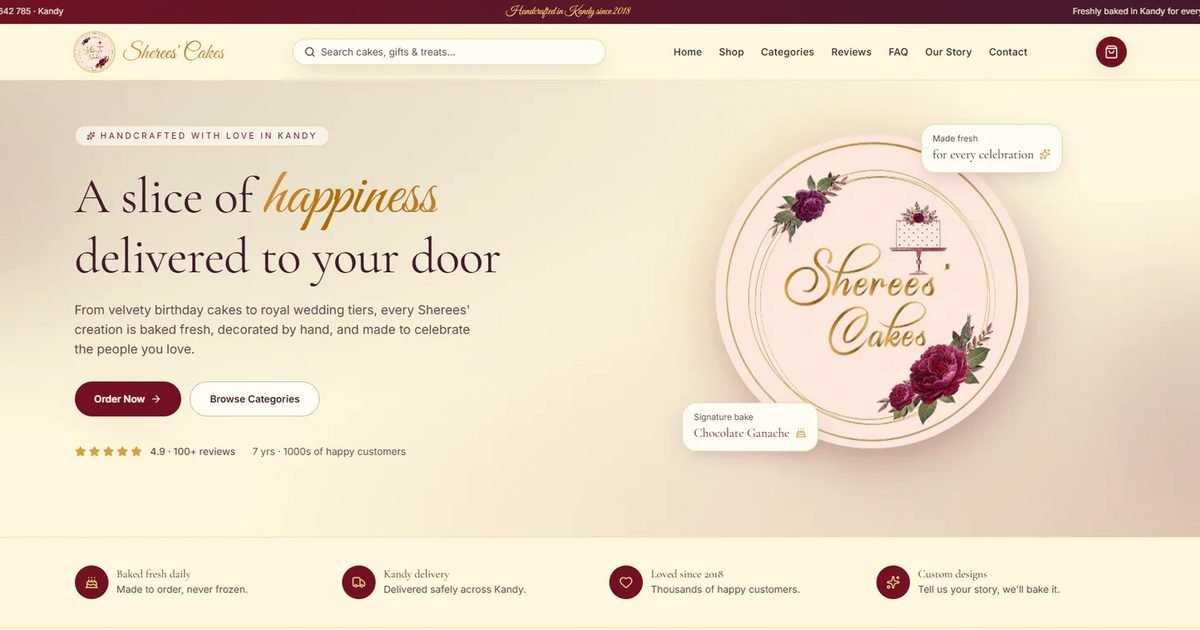
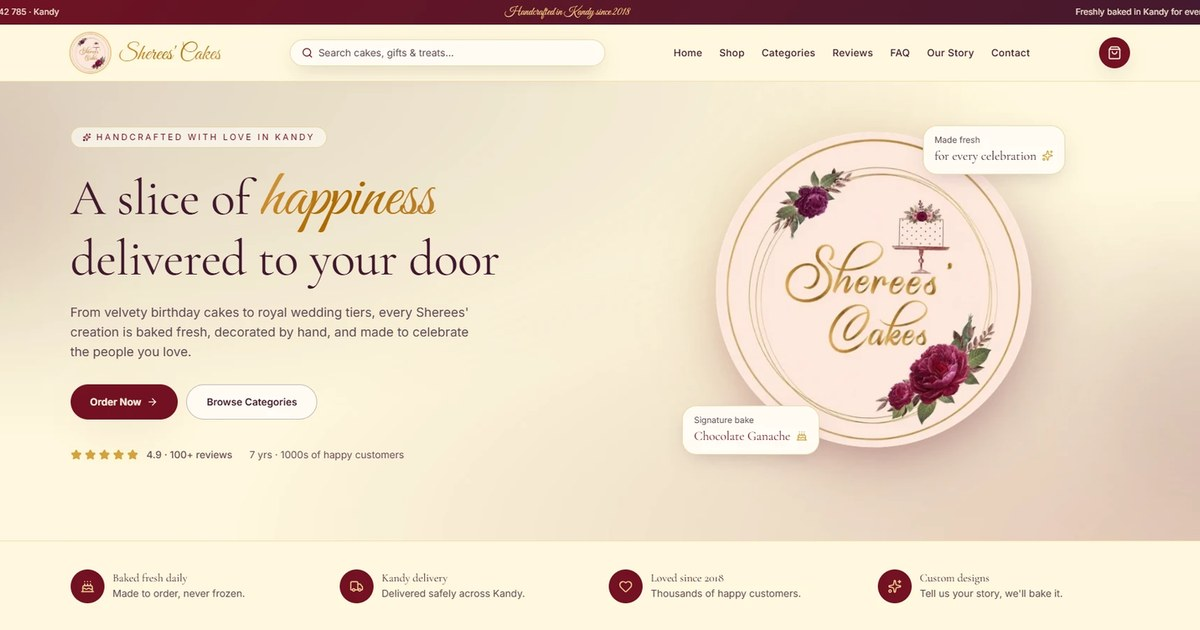
Update sheree's cakes project images

diff --git a/sachinakash.dev/src/data/portfolio.ts b/sachinakash.dev/src/data/portfolio.ts
@@ -528,15 +528,20 @@ export const projects: Project[] = ([
     title: "Sheree’s Cakes E-Commerce Platform",
     url: "https://www.shereescakes.lk/",
     image: "/images/projects/sherees-cakes.webp",
-    imageAlt: "Sheree's Cakes e-commerce website home page",
+    imageAlt: "Sheree's Cakes home page hero: A slice of happiness delivered to your door",
     gallery: [
       {
-        image: "/images/projects/sherees-cakes-shop.png",
+        image: "/images/projects/sherees-cakes-shop.webp",
         imageAlt:
-          "Sheree's Cakes online shop with product filters and birthday cake catalogue",
+          "Sheree's Cakes Shop All Treats page with product search and category filters",
       },
       {
-        image: "/images/projects/sherees-cakes-cart.png",
+        image: "/images/projects/sherees-cakes-birthday-cakes.webp",
+        imageAlt:
+          "Sheree's Cakes birthday cake catalogue with product codes, prices, and add-to-cart buttons",
+      },
+      {
+        image: "/images/projects/sherees-cakes-cart.webp",
         imageAlt:
           "Sheree's Cakes shopping cart showing an item, subtotal, and checkout actions",
       },
